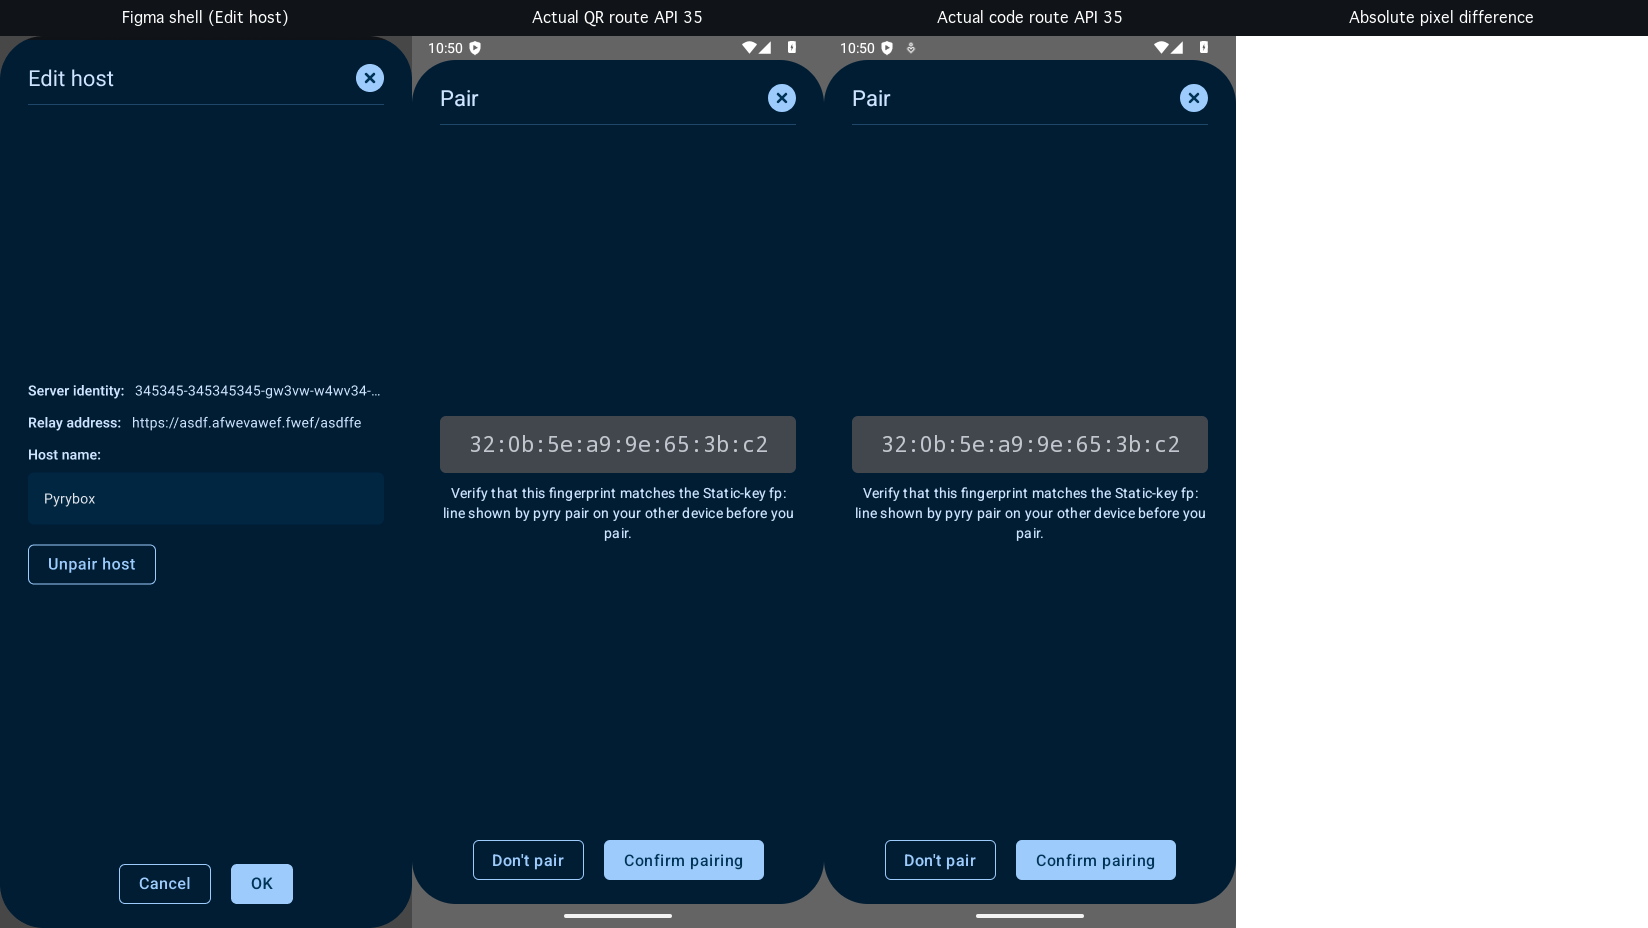
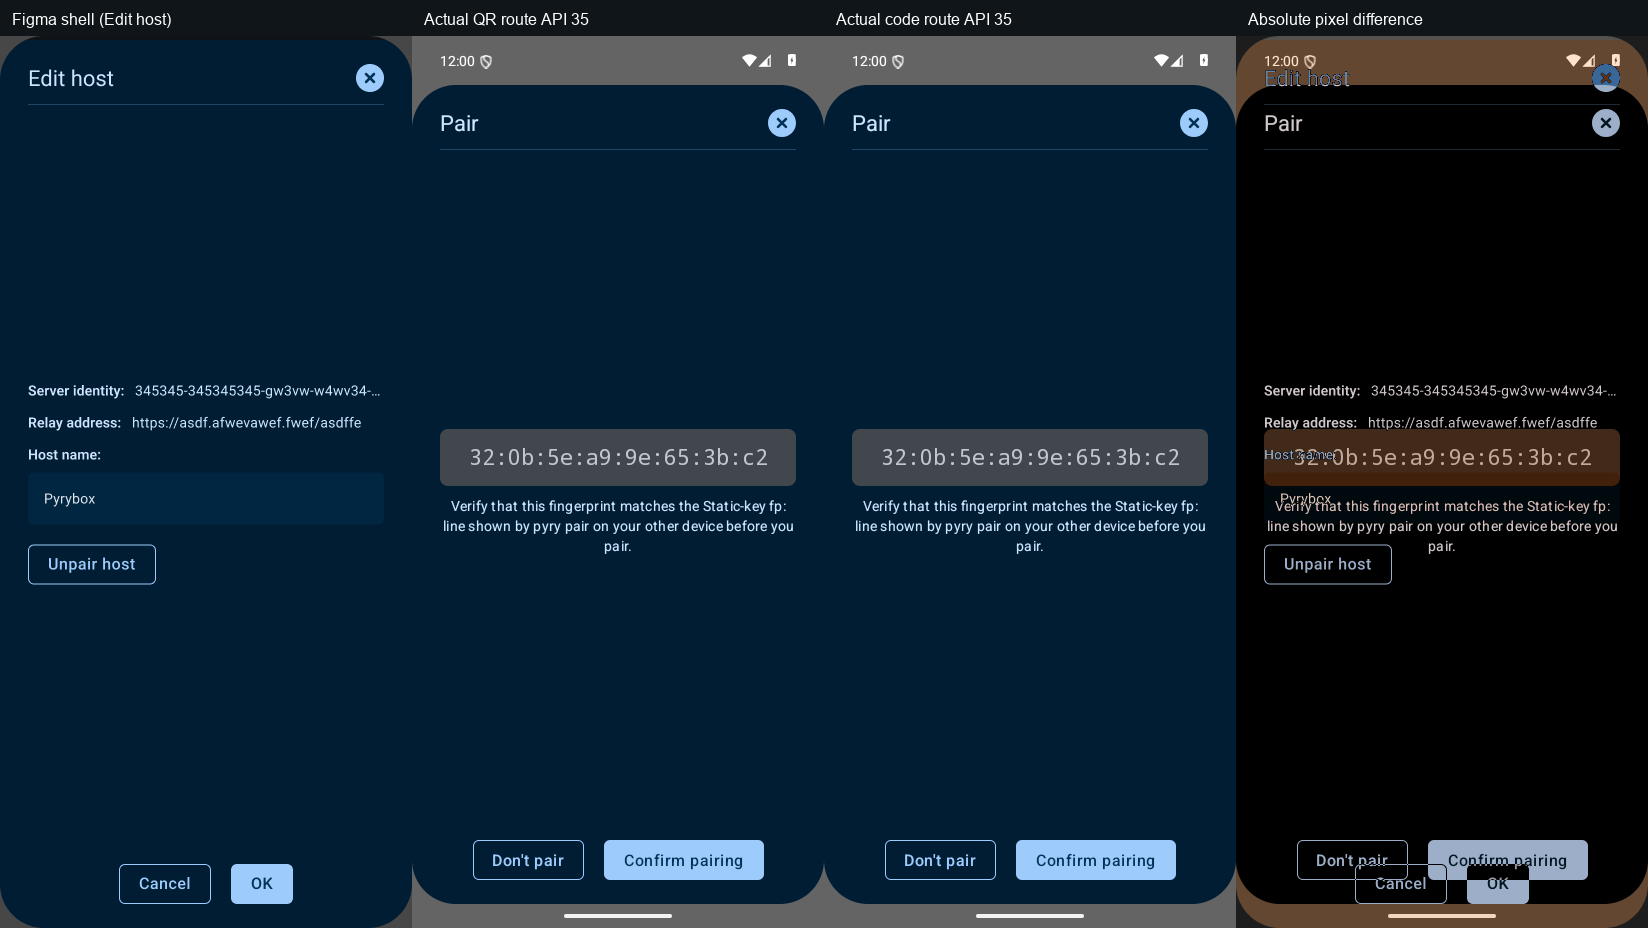
fix(onboarding): use theme shape for fingerprint confirmation (#1270)

Changed region(s): [[0.2476, 0.0, 1.0, 1.0], [0.0, 0.0, 0.1857, 0.0312]]

diff --git a/app/src/main/java/de/pyryco/mobile/ui/onboarding/ScannerScreen.kt b/app/src/main/java/de/pyryco/mobile/ui/onboarding/ScannerScreen.kt
@@ -426,7 +426,7 @@ private fun PairingConfirmContent(
                 modifier =
                     Modifier
                         .fillMaxWidth()
-                        .clip(RoundedCornerShape(6.dp))
+                        .clip(MaterialTheme.shapes.small)
                         .background(MaterialTheme.colorScheme.surfaceVariant)
                         .padding(horizontal = 12.dp, vertical = 16.dp),
                 contentAlignment = Alignment.Center,
@@ -483,10 +483,16 @@ private fun ScannerScreenDarkPreview() {
     }
 }
 
-@Preview(name = "Confirm", showBackground = true, widthDp = 412, heightDp = 892)
+@Preview(
+    name = "Confirm dark",
+    showBackground = true,
+    widthDp = 412,
+    heightDp = 892,
+    uiMode = Configuration.UI_MODE_NIGHT_YES,
+)
 @Composable
 private fun PairingConfirmPreview() {
-    PyrycodeMobileTheme {
+    PyrycodeMobileTheme(darkTheme = true) {
         ScannerScreen(
             state =
                 ScannerUiState.AwaitingConfirm(

diff --git a/docs/specs/architecture/1270-fingerprint-confirmation-figma.md b/docs/specs/architecture/1270-fingerprint-confirmation-figma.md
@@ -69,3 +69,7 @@ No new I/O or parsing. The existing route-specific parse, save and connect error
 
 **Reviewer:** builder (self-review per `builder/security-review.md`)
 **Date:** 2026-09-29
+
+## Revisions
+
+- 2026-09-29 verifier review: use `MaterialTheme.shapes.small` for the fingerprint panel instead of a local corner shape. This is the closest existing theme role to the older verification field; preserve the field's dimensions and compare the refreshed emulator capture with node `487:2559`. Render the confirmation preview in the fixed dark theme.
